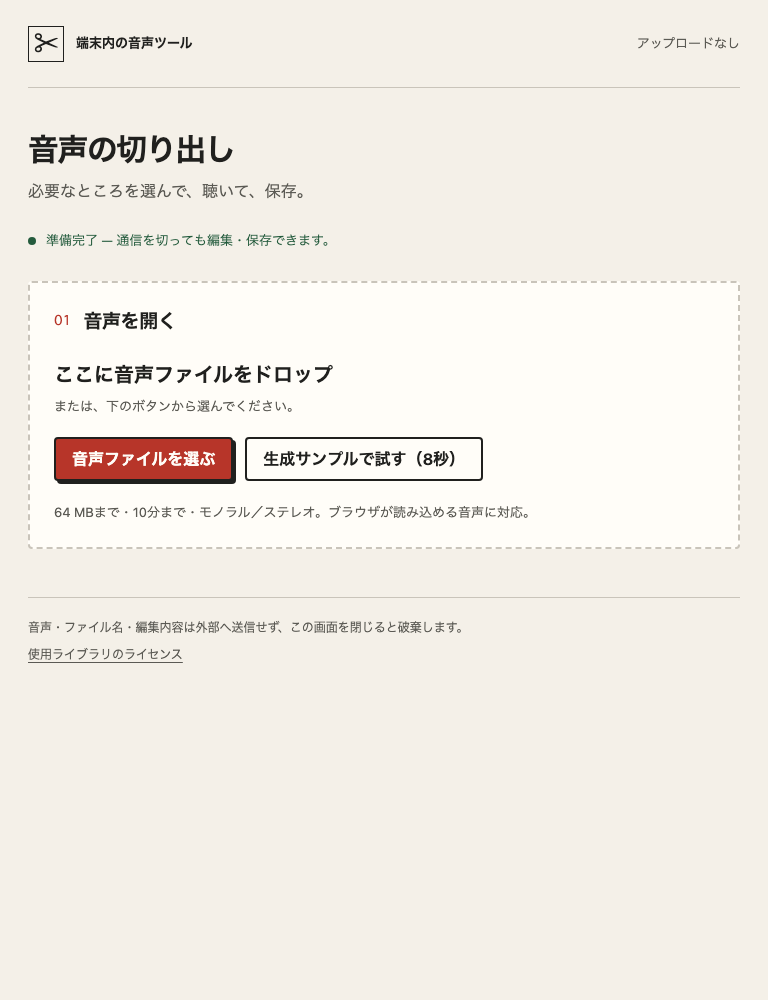
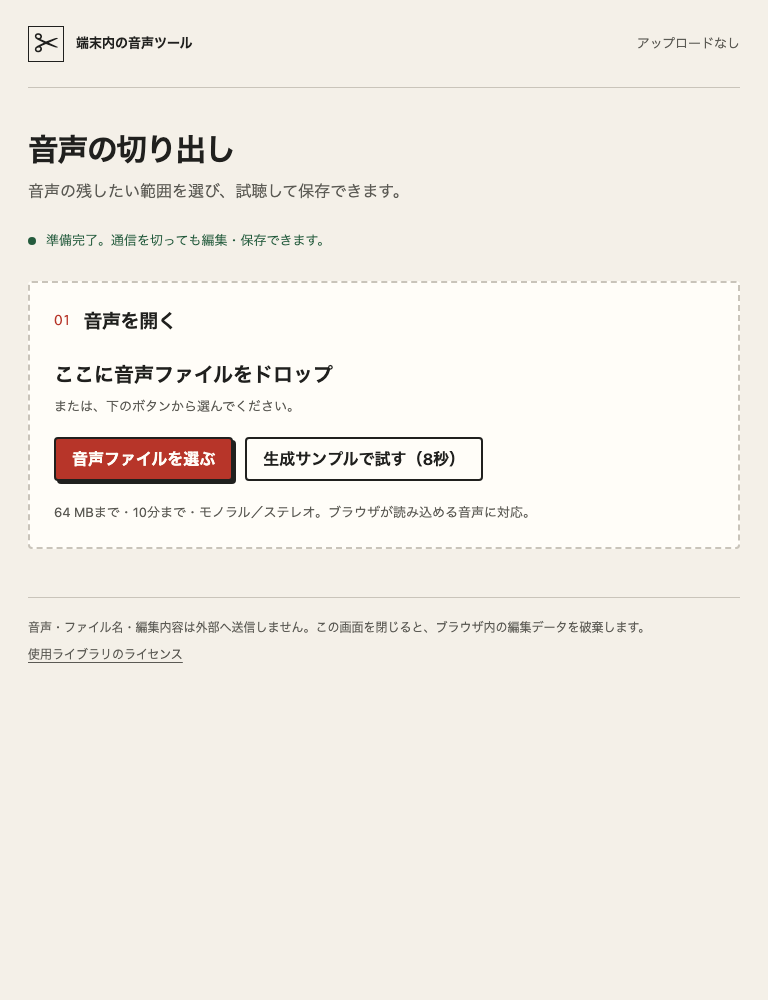
Add yomiyasu review workflow and refine audio tool copy

Changed region(s): [[0.0312, 0.186, 0.5312, 0.248], [0.3438, 0.62, 0.8125, 0.651]]

diff --git a/2026-10-18/src/App.tsx b/2026-10-18/src/App.tsx
@@ -149,11 +149,11 @@ export default function App() {
     <main>
       <div className="intro">
         <h1>音声の切り出し</h1>
-        <p>必要なところを選んで、聴いて、保存。</p>
+        <p>音声の残したい範囲を選び、試聴して保存できます。</p>
       </div>
       <div className={`encoder-status ${encoder === 'ready' ? 'status-success' : encoder === 'error' ? 'status-error' : ''}`} role="status">
         <span className="status-dot" aria-hidden="true" />
-        <span>{encoder === 'ready' ? '準備完了 — 通信を切っても編集・保存できます。' : encoder === 'loading' ? '音声処理の準備中… ファイルは先に選べます。' : `音声処理を準備できませんでした。${encoderError}`}</span>
+        <span>{encoder === 'ready' ? '準備完了。通信を切っても編集・保存できます。' : encoder === 'loading' ? '音声処理の準備中… ファイルは先に選べます。' : `音声処理を準備できませんでした。${encoderError}`}</span>
         {encoder === 'error' && <button type="button" onClick={() => void prepare()}>準備を再試行</button>}
       </div>
       <section className={`file-section${dragOver ? ' is-dragover' : ''}${asset ? ' has-file' : ''}`} aria-labelledby="file-heading" onDragOver={event => { event.preventDefault(); setDragOver(true); }} onDragLeave={event => { if (!event.currentTarget.contains(event.relatedTarget as Node)) setDragOver(false); }} onDrop={onDrop}>
@@ -207,6 +207,6 @@ export default function App() {
       </>}
       {notice && <p className="notice" role="status">{notice}</p>}
     </main>
-    <footer><p>音声・ファイル名・編集内容は外部へ送信せず、この画面を閉じると破棄します。</p><a href="./licenses.html" target="_blank" rel="noreferrer">使用ライブラリのライセンス</a></footer>
+    <footer><p>音声・ファイル名・編集内容は外部へ送信しません。この画面を閉じると、ブラウザ内の編集データを破棄します。</p><a href="./licenses.html" target="_blank" rel="noreferrer">使用ライブラリのライセンス</a></footer>
   </div>;
 }

diff --git a/2026-10-18/tests/browser/audio.spec.ts b/2026-10-18/tests/browser/audio.spec.ts
@@ -3,7 +3,7 @@ import { readFile } from 'node:fs/promises'
 import { Input, BlobSource, ALL_FORMATS } from 'mediabunny'
 import { toneWav } from './helpers'
 
-const ready = (page: Page) => expect(page.getByText('準備完了 — 通信を切っても編集・保存できます。')).toBeVisible()
+const ready = (page: Page) => expect(page.getByText('準備完了。通信を切っても編集・保存できます。')).toBeVisible()
 const upload = (page: Page, buffer = toneWav(), name = 'テスト音声_左右で音が違う.wav') => page.getByLabel('音声ファイル', { exact: true }).setInputFiles({ name, mimeType: 'audio/wav', buffer })
 async function select(page: Page, start = '1.125', end = '3.500') {
   await page.getByLabel('開始時刻', { exact: true }).fill(start)

diff --git a/2026-10-18/docs/verification/YOMIYASU.md b/2026-10-18/docs/verification/YOMIYASU.md
@@ -1,0 +1,46 @@
+# yomiyasuの実施記録
+
+Issue [#190](https://github.com/hayatok/100challenge/issues/190)。既存のyomiyasu 2.0.1を使用し、ルートのAGENTS.mdに推敲工程を追加した。アプリへの実行時依存は追加していない。
+
+## 対象と変更
+
+- 書き手・読み手・場面: 開発者から、音声ツールの利用者と今後の開発担当者へ伝える文章。対象ファイルの役割から判断した。
+- ルートのAGENTS.mdと共通手順書、日本語の主画面文言（src/App.tsx）、アプリのREADMEを対象にした。過去アプリやライセンス原文は対象に含めていない。
+- 冒頭の「必要なところを選んで、聴いて、保存。」を「音声の残したい範囲を選び、試聴して保存できます。」に変更した。
+- フッターは送信しないことと編集データを破棄することを二文に分け、ブラウザ内のデータを指すと明記した。
+- READMEでは時刻の入力方法と処理の説明を文にし、ファイルと役割の対応を表にした。数値、コマンド、対応範囲、未確認事項は維持した。
+
+## 確認の記録
+
+| 対象 | 立場・種類 | 見直し候補 | 実行した検査 |
+|---|---|---|---|
+| AGENTS.md | 決まり・formal | 原文13件 → 最終稿13件 | lint、diff、資料との照合、最終稿の照合 |
+| README.md | 説明・manual | 原文4件 → 最終稿1件 | lint、diff、最終稿の照合 |
+| src/App.tsx | 説明 | 原文0件 → 最終稿0件 | lint、diff、最終稿の照合 |
+| docs/JAPANESE_REVIEW.md | 決まり・manual | 最終稿2件（新規作成） | lint、資料との照合、最終稿の照合 |
+
+件数は点数ではなく、増減は読みやすさの良し悪しを示さない。候補を原文と読み比べ、次の理由で残した。
+
+- AGENTS.mdの箇条書きは規則の一覧で、「解像度」は画面の寸法を指す。今回の追加と関係しない既存文の読点も変更していない。
+- READMEの「準備完了の後は、」は通信を切れる条件を区切る読点として残した。
+- App.tsxの意味が変わる恐れ3件はHTML行の変更。表示文言だけの変更で、処理や条件式は変えていない。
+- 新規手順書の名前に関する候補はCLI名やコマンド例のパス・変数。使用できるオプションはCLIのhelpと照合した。
+- 硬化の検査・勢いの検査は、差分を検査した3ファイルとも候補なし。
+- 実行しなかった検査: READMEとApp.tsxの資料との照合（新しい仕様や数値は補っていない）。verifyのreplayは省略した。
+
+以下はverifyの出力の2行目。各ファイルのハッシュが検査記録と一致した。これは読みやすさの合格判定ではない。
+
+```text
+yomiyasu-check: executed via=verify run=20261018T155152Z-211b8fe3 attempt=1 final=sha256:d3e05956f651 mode=rewrite doc_type=formal checks=lint,diff,materials meaning_risk=2 replay=skipped
+yomiyasu-check: executed via=verify run=20261018T155152Z-f63dcb17 attempt=1 final=sha256:effdbafddf57 mode=rewrite doc_type=manual checks=lint,diff meaning_risk=0 replay=skipped
+yomiyasu-check: executed via=verify run=20261018T155153Z-481b5b87 attempt=1 final=sha256:36c8613754d6 mode=rewrite checks=lint,diff meaning_risk=3 replay=skipped
+yomiyasu-check: executed via=verify run=20261018T155153Z-50de349e attempt=1 final=sha256:62ebe3dbafd1 mode=compose doc_type=manual checks=lint,materials meaning_risk=11 replay=skipped
+```
+
+原文と最終稿を含むCLIの記録はローカルの作業用フォルダに保管し、リポジトリにはこの実施記録だけを置いた。
+
+## 画面と動作
+
+`npm run check`を再実行し、単体7件、lint、型チェック、build、ブラウザ10件が成功した。1440px・768px・375pxで初期画面と保存結果の画像を確認し、変更した文言の欠落や重なり、横はみ出しは見られなかった。画像は同じ検証フォルダのempty-*.pngとresult-*.pngを更新した。
+
+IABでも生成サンプルを開き、1～3秒を指定してMP3の書き出し完了を確認した。Safari・Firefox・実機スマートフォンは今回も確認していない。音声処理の実装は変更していない。

diff --git a/2026-10-18/README.md b/2026-10-18/README.md
@@ -4,13 +4,13 @@
 
 ## 使い方
 
-1. 音声を選択、またはドロップする。8秒の生成サンプルでも試せる。
+1. 音声ファイルを選ぶか、画面にドロップする。8秒の生成サンプルでも試せる。
 2. 波形をドラッグして残す範囲を選び、両端のつまみ・時刻入力で調整する。
-3. 選択範囲を試聴する。ループ再生、波形の16倍拡大、キーボード調整に対応。
+3. 選択範囲を試聴する。ループ再生、波形の16倍拡大、キーボードでの調整も使える。
 4. MP3 / M4A、128 / 192 / 256 kbps、保存名を指定して書き出す。
 5. 結果の音声を確認し、「ファイルを保存」を押す。
 
-時刻は `01:23.456` または `83.456` 秒。つまみにフォーカスして矢印で0.01秒、Shift併用で1秒、Alt併用で0.001秒ずつ調整できる。フォーム外ではSpaceで試聴・停止する。
+時刻は `01:23.456` または `83.456` 秒で入力する。つまみにフォーカスすると、矢印キーで0.01秒、Shift併用で1秒、Alt併用で0.001秒ずつ調整できる。フォーム外ではSpaceで試聴・停止する。
 
 ## データと対応範囲
 
@@ -19,7 +19,7 @@
 - ファイルをブラウザの永続ストレージへ保存しない。必要な出力だけ明示的にダウンロードする。元ファイルは変更しない。
 - 入力は64MiB・10分以内、モノラルまたはステレオ。ブラウザとコンテナ解析が対応する音声が対象。MP3 / M4A / WAVの実ファイル読込を確認済み。
 - 編集・出力は48kHz。M4AはAAC-LCをMP4コンテナへ格納する。出力に元ファイルのタグを引き継がない。
-- 圧縮形式のエンコーダー遅延・末尾paddingにより、出力には数十ミリ秒程度の余白が付くことがある。結果欄の「選択範囲」は編集時の区間長で、圧縮後の厳密なファイル長ではない。
+- 圧縮形式のエンコーダーの遅延や末尾のパディングにより、出力には数十ミリ秒程度の余白が付くことがある。結果欄の「選択範囲」は編集時の区間長で、圧縮後の厳密なファイル長ではない。
 - 主対象はデスクトップChromium。375/768/1440pxの表示を確認。Safari・Firefox・実機スマートフォンは未確認。
 
 ## 実行と検証
@@ -42,12 +42,14 @@ npm run preview -- --port 4189
 
 ## 実装と依存
 
-React + TypeScript + Vite。Web Audioでデコードと試聴、Mediabunny 1.61.6と公式のMP3/AACエンコーダー拡張で実エンコードする。ブラウザごとのAACエンコーダー実装の違いに依存せず両形式を保存するため、両WASM拡張を採用した。workerとWASMはbundleへ内包されるため、外部の処理サーバーや追加ダウンロードを必要としない。
+React + TypeScript + Viteで実装した。デコードと試聴にはWeb Audio、エンコードにはMediabunny 1.61.6と公式のMP3/AACエンコーダー拡張を使う。ブラウザごとのAACエンコーダー実装の違いに依存せず両形式を保存するため、両WASM拡張を採用した。workerとWASMはアプリに同梱するため、外部の処理サーバーや追加ダウンロードを必要としない。
 
-- `src/App.tsx` — 状態と一画面の操作
-- `src/components/Waveform.tsx` — 波形、範囲、拡大、ハンドル
-- `src/audio/engine.ts` — 入力上限確認、デコード、実エンコード、キャンセル
-- `src/audio/usePlayback.ts` — 選択範囲の試聴と停止/後処理
-- `tests/browser/` — オフライン・保存内容・失敗復帰・画面幅の実操作
+| ファイル | 役割 |
+|---|---|
+| `src/App.tsx` | 状態と一画面の操作 |
+| `src/components/Waveform.tsx` | 波形、範囲、拡大、ハンドル |
+| `src/audio/engine.ts` | 入力上限確認、デコード、実エンコード、キャンセル |
+| `src/audio/usePlayback.ts` | 選択範囲の試聴と停止/後処理 |
+| `tests/browser/` | オフライン・保存内容・失敗復帰・画面幅の実操作 |
 
 [実装計画](docs/PLAN.md)、[画面方針](docs/DESIGN.md)、[検証結果](docs/verification/RESULTS.md)、[依存とライセンス](docs/THIRD_PARTY.md)。

diff --git a/docs/JAPANESE_REVIEW.md b/docs/JAPANESE_REVIEW.md
@@ -1,0 +1,34 @@
+# 日本語の推敲
+
+画面文言、README、仕様書、PR説明などで、今回作成・変更した日本語を対象にする。対象の文章を読み、何が読みにくいかを確かめてから直す。自然に読める文章は残す。
+
+## 手順
+
+1. 利用できる `yomiyasu` スキルの `SKILL.md` を読む。文書の種類に応じた参照資料も確認する。
+2. 書き直す前の原文を別ファイルへ保存し、`yomiyasu_lint.py` を実行する。新規作成では、依頼や仕様などの資料を用意する。
+3. 動作主と対象、条件、否定、数値、名称、確度を保って推敲する。操作手順や規則の箇条書き、コード、URL、引用は役割を確かめて残す。
+4. `yomiyasu_check.py run` を実行し、候補と全文差分を読む。新規作成では資料と照合する。候補を減らすためだけに書き換えず、修正回数はスキルに従う。
+5. 最終稿を実ファイルへ反映し、`verify` でハッシュが記録と合ったことを確認する。その後に文章を変えたら、変更後の文章を検査して照合し直す。
+6. 対象、主な変更、採用しなかった候補の理由、実行した検査と未実施の検査を報告する。画面文言は実画面でも確認し、AI Slopレビューへ渡す。
+
+## コマンド例
+
+`YOMIYASU_SKILL_DIR` に、利用するスキルのフォルダを指定する。`work` は作業用のフォルダで、原文、資料、最終稿、検査記録を置く。文書の種類や立場は対象に合わせて選ぶ。
+
+```bash
+python3 "$YOMIYASU_SKILL_DIR/scripts/yomiyasu_lint.py" work/original.md --doc-type manual
+python3 "$YOMIYASU_SKILL_DIR/scripts/yomiyasu_check.py" run \
+  --source work/original.md --final work/final.md \
+  --stance 説明 --doc-type manual --fact-gaps --state-dir work/records
+```
+
+新規作成では `--source` を外し、`--material work/material.md` を渡す。検査した最終稿を実ファイルへ反映した後、次のコマンドを実行する。
+
+```bash
+python3 "$YOMIYASU_SKILL_DIR/scripts/yomiyasu_check.py" verify \
+  --final path/to/actual.md --state-dir work/records
+```
+
+記録には原文や最終稿が含まれる。保管先を明示し、個人情報や未公開情報を含む記録を誤ってコミットしない。アプリ固有の実施結果は、日付フォルダの検証記録に置く。
+
+`run` の実行やハッシュの一致は、意味の保持や読みやすさの合格判定ではない。候補ゼロでも文章を読み、実装・仕様と一致するかを確認する。スキルやPythonを利用できない場合は、理由と目視で確認した範囲を報告する。

diff --git a/AGENTS.md b/AGENTS.md
@@ -27,6 +27,13 @@
 - `gpt-6-luna`（6.0 Luna）は、範囲が明確な探索、情報整理、単純な反復作業などの軽いタスクに使う。実装、仕様検討、設計評価、複雑な判断を要する調査には、コストと能力の両立を重視して `gpt-6.1-sol`（6.1 Sol）を基本候補とする。重い実装や複数の制約が絡む判断も `gpt-6.1-sol` と `gpt-6-astra` の両方を候補にし、要求される推論の難しさ、不確実性、コストに応じて選ぶ。重いタスクという理由だけで Astra に固定しない。指定モデルが利用できない場合は、利用可能な近いモデルを選び、その理由を報告する。
 - 同じファイルを複数のエージェントに同時編集させない。必要ならファイルを分担するか Git worktree で隔離する。メインエージェントが成果を統合し、最終的な判断と確認を担当する。
 
+## 日本語の推敲（yomiyasu）
+
+- 日本語の画面文言、README、仕様書、PR説明などを作成・変更した場合は、完了前に `yomiyasu` スキルを読み、今回書いた文章を推敲する。既存文書全体の書き換えは目的に含めない。
+- 原文を残してから検査し、候補を原文と読み比べる。数値、固有名詞、条件、否定、確度、未確認の事項を保ち、候補の件数を合否や読みやすさの点数として扱わない。
+- スキルの `yomiyasu_check.py run` で最終稿を検査し、提出前に `verify` で実ファイルと記録を照合する。推敲後に文章を変えた場合は、変更後の文章でも検査と照合を行う。
+- 利用できない場合は理由と目視で確認した範囲を報告し、yomiyasuで検査済みと扱わない。実行方法と記録の扱いは `docs/JAPANESE_REVIEW.md` を参照する。
+
 ## 完了前のAI Slopレビュー（必須）
 
 - リポジトリのファイルを作成・変更・削除したタスクでは、変更の大小やコード・文書・設定の別を問わず、完了報告前に必ず `ai_slop_reviewer`（`gpt-6-astra`）を起動し、結果を待つ。定義は `.codex/agents/ai-slop-reviewer.toml`。変更のない相談・調査だけの回答は対象外とする。このレビューは、上の一般的なサブエージェント利用基準より優先する。

diff --git a/2026-10-18/docs/verification/RESULTS.md b/2026-10-18/docs/verification/RESULTS.md
@@ -62,3 +62,11 @@
 - 元checkoutに開始前からあった1331ファイルはSHA-256を再照合し、内容と存在がすべて一致。元checkoutの共有ファイルを変更せず、新規アプリを追加した。
 - 元checkoutとPR用worktreeのアプリ43ファイルを照合し、同一内容を確認した。
 - この記録を更新した後の最新チェックはPRのChecks欄を参照。
+
+## yomiyasuによる推敲（Issue #190）
+
+主画面の説明3か所とREADMEを推敲し、共通の実施手順をルートのAGENTS.mdとdocs/JAPANESE_REVIEW.mdへ追加した。原文をlintで調べ、最終稿をrunで検査した。候補と全文差分を読み、verifyで実ファイルと記録を照合した。候補を残した理由と照合結果は[YOMIYASU.md](YOMIYASU.md)に記載した。
+
+文言変更後の`npm run check`は、単体7件、lint、型チェック、build、実ブラウザ10件が成功した。ルートのテスト38件も成功した。1440px・768px・375pxの初期画面と保存結果の画像を更新して確認し、IABでも1～3秒の生成音声をMP3へ書き出した。音声処理の実装は変更していない。上記の限界と未確認事項は継続する。
+
+`ai_slop_reviewer`（gpt-6-astra）は今回の差分と新規の共通手順・実施記録を確認し、指摘なし。保存済みのverify出力と記録、375pxの結果画像も確認した。レビュアーは検査・テスト・ブラウザ操作を再実行していない。CIの最新結果はPRのChecks欄を参照する。
